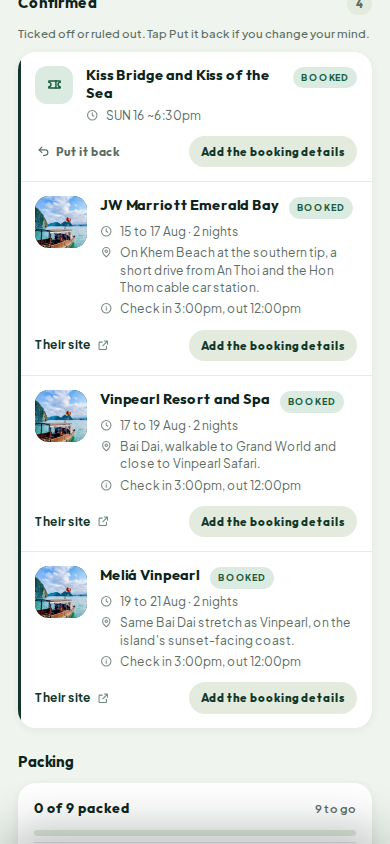
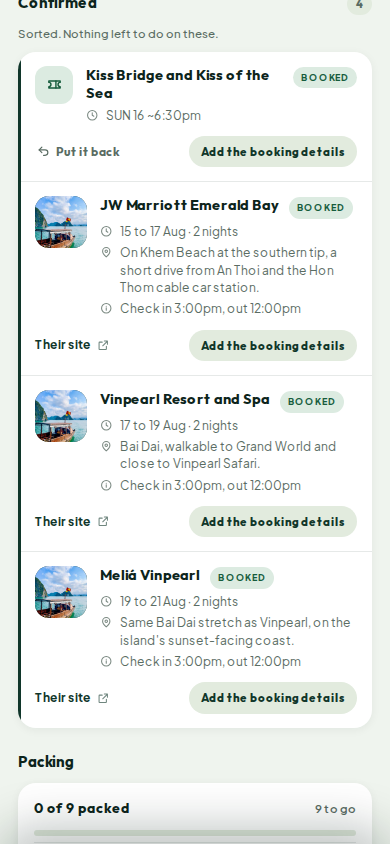
Not needed is its own section, and the pricing page speaks plainly
raffy: "wait if it's not needed why in confirmed? that's not weird?"

It was. Confirmed means you sorted it -- a room booked, a seat held. A row
you crossed off is the opposite: you decided it does not apply. One
heading over both made the heading untrue and the count meaningless, since
"5 of 6 sorted" counted a hotel nobody booked and nobody intends to.

So they still both come down, and then they part: Confirmed for what is
sorted, Not needed below it, quieter, with Put it back. And a crossed-off
row now leaves the ring's total rather than counting as sorted -- removing
a task should make the list shorter, which is what anybody crossing
something out expects.

Then the landing page: "use better language". It was breaking the same
plain-English rule the agent works to -- "no bulk discount", "run low
mid-trip", "rebuilding it". Most people reading it learned English at
school in Malaysia or Indonesia. It now says what a credit is before
asking anyone to buy one, and the test fails on a list of slang as well as
on numbers that disagree with the server. The test reads the free grant
and the cost of planning again from lib/credits.js instead of matching a
sentence, so the copy can be rewritten freely and still has to be true.

Claude-Session: https://claude.ai/code/session_01XX4qYWhMzcajorKvPXrgW7

Changed region(s): [[0.0308, 0.0308, 0.9538, 0.0616]]

diff --git a/public/welcome/index.html b/public/welcome/index.html
@@ -545,30 +545,36 @@ footer{padding:44px 0 40px;border-top:1px solid var(--line);color:var(--ink-fain
 </section>
 
 <!-- ============ PRICING ============ -->
-<!-- The numbers here are the ones the app actually charges. lib/stripe.js holds
-     the packs (RM28 = 100 credits, RM68 = 242, top up from RM10 at the same
-     RM0.28 a credit) and lib/credits.js the free grant (15) and the cost of a
-     rebuild (25). A trip has measured between 27 and 84 credits across the test
-     runs, so the ranges below are the real spread, not a guess. If a price moves
-     in config, it moves here too. -->
+<!-- The numbers are the ones the app actually charges: lib/stripe.js holds the
+     packs (RM28 = 100 credits, RM68 = 242, top up from RM10 at the same RM0.28
+     a credit) and lib/credits.js the free grant (15) and the cost of planning
+     again (25). A trip has measured 27 to 84 credits across the test runs, so
+     the range below is the real spread, not a guess.
+
+     THE WORDS. raffy, 2026-09-08: "use better language." The same rule the
+     agent works to applies here, and this page was breaking it — "no bulk
+     discount", "run low mid-trip", "rebuilding it". Most people reading this
+     learned English at school in Malaysia or Indonesia. So: short common words,
+     one idea a line, and no phrase whose meaning is not its literal meaning.
+     Say what a credit is before asking anyone to buy one. -->
 <section id="pricing" class="dark">
   <div class="wrap">
-    <div class="rv" style="max-width:620px;margin-bottom:10px">
+    <div class="rv" style="max-width:640px;margin-bottom:10px">
       <p class="eyebrow">Pricing</p>
-      <h2>Pay per trip, not every month.</h2>
-      <p class="lede" style="margin-top:16px">You buy credits and spend them as you plan. No subscription, and they do not expire. <strong style="color:#F2F7F2">Start with 15 free credits</strong> &mdash; enough to see how it works before you pay anything.</p>
+      <h2>Pay for the trip. Not every month.</h2>
+      <p class="lede" style="margin-top:16px">Credits are what you spend while you plan. A question costs a few. A whole trip costs more. <strong style="color:#F2F7F2">Your first 15 credits are free</strong>, so you can try it before you pay anything &mdash; and credits never expire.</p>
     </div>
 
     <div class="tiers">
       <div class="tier rv">
         <div class="tname">Plan a trip</div>
         <div class="tprice">RM28</div>
-        <div class="tunit">100 credits, paid once</div>
-        <p class="tsub">One big trip, researched properly, with room to change your mind.</p>
+        <div class="tunit">100 credits &middot; one payment</div>
+        <p class="tsub">One full trip, planned properly, with room to change your mind.</p>
         <ul>
-          <li><svg viewBox="0 0 24 24" fill="none" stroke="currentColor" stroke-width="2.4" stroke-linecap="round" stroke-linejoin="round"><path d="m5 12.5 4.5 4.5L19 7"/></svg>A whole trip planned, start to finish</li>
-          <li><svg viewBox="0 0 24 24" fill="none" stroke="currentColor" stroke-width="2.4" stroke-linecap="round" stroke-linejoin="round"><path d="m5 12.5 4.5 4.5L19 7"/></svg>Asking about a trip you have made costs a credit or two</li>
-          <li><svg viewBox="0 0 24 24" fill="none" stroke="currentColor" stroke-width="2.4" stroke-linecap="round" stroke-linejoin="round"><path d="m5 12.5 4.5 4.5L19 7"/></svg>The app is yours, and it works with no internet</li>
+          <li><svg viewBox="0 0 24 24" fill="none" stroke="currentColor" stroke-width="2.4" stroke-linecap="round" stroke-linejoin="round"><path d="m5 12.5 4.5 4.5L19 7"/></svg>A whole trip: where you sleep, and what you do each day</li>
+          <li><svg viewBox="0 0 24 24" fill="none" stroke="currentColor" stroke-width="2.4" stroke-linecap="round" stroke-linejoin="round"><path d="m5 12.5 4.5 4.5L19 7"/></svg>Real prices and real opening times, checked as it plans</li>
+          <li><svg viewBox="0 0 24 24" fill="none" stroke="currentColor" stroke-width="2.4" stroke-linecap="round" stroke-linejoin="round"><path d="m5 12.5 4.5 4.5L19 7"/></svg>The app is yours to keep, and it works with no internet</li>
         </ul>
         <a class="btn btn-ghost" href="/">Start here</a>
       </div>
@@ -576,25 +582,25 @@ footer{padding:44px 0 40px;border-top:1px solid var(--line);color:var(--ink-fain
       <div class="tier best rv">
         <div class="tname">Plan a few <span class="tag">Best value</span></div>
         <div class="tprice">RM68</div>
-        <div class="tunit">242 credits, paid once</div>
+        <div class="tunit">242 credits &middot; one payment</div>
         <p class="tsub">Two or three trips, or one you keep coming back to.</p>
         <ul>
-          <li><svg viewBox="0 0 24 24" fill="none" stroke="currentColor" stroke-width="2.4" stroke-linecap="round" stroke-linejoin="round"><path d="m5 12.5 4.5 4.5L19 7"/></svg>The same rate as the smaller pack &mdash; no bulk discount, no catch</li>
-          <li><svg viewBox="0 0 24 24" fill="none" stroke="currentColor" stroke-width="2.4" stroke-linecap="round" stroke-linejoin="round"><path d="m5 12.5 4.5 4.5L19 7"/></svg>Plan trips for other people on your account</li>
-          <li><svg viewBox="0 0 24 24" fill="none" stroke="currentColor" stroke-width="2.4" stroke-linecap="round" stroke-linejoin="round"><path d="m5 12.5 4.5 4.5L19 7"/></svg>Credits stay yours until you use them</li>
+          <li><svg viewBox="0 0 24 24" fill="none" stroke="currentColor" stroke-width="2.4" stroke-linecap="round" stroke-linejoin="round"><path d="m5 12.5 4.5 4.5L19 7"/></svg>Same price for each credit as the smaller pack</li>
+          <li><svg viewBox="0 0 24 24" fill="none" stroke="currentColor" stroke-width="2.4" stroke-linecap="round" stroke-linejoin="round"><path d="m5 12.5 4.5 4.5L19 7"/></svg>Plan trips for other people from your account</li>
+          <li><svg viewBox="0 0 24 24" fill="none" stroke="currentColor" stroke-width="2.4" stroke-linecap="round" stroke-linejoin="round"><path d="m5 12.5 4.5 4.5L19 7"/></svg>What you do not use stays there for the next trip</li>
         </ul>
         <a class="btn btn-onDark" href="/">Start here</a>
       </div>
     </div>
 
     <div class="credits rv" style="background:rgba(255,255,255,.05);border-color:rgba(255,255,255,.12);color:#E7EFE8">
-      <div class="ch">What things cost</div>
+      <div class="ch">What each thing costs</div>
       <div class="crow" style="border-top-color:rgba(255,255,255,.1)"><span style="color:#A9C0B4">Planning a whole trip</span><span>30&ndash;85</span></div>
-      <div class="crow" style="border-top-color:rgba(255,255,255,.1)"><span style="color:#A9C0B4">Rebuilding it after your plans change</span><span>25</span></div>
+      <div class="crow" style="border-top-color:rgba(255,255,255,.1)"><span style="color:#A9C0B4">Planning it again, after your dates change</span><span>25</span></div>
       <div class="crow" style="border-top-color:rgba(255,255,255,.1)"><span style="color:#A9C0B4">Asking it to look one thing up</span><span>1&ndash;6</span></div>
-      <div class="crow" style="border-top-color:rgba(255,255,255,.1)"><span style="color:#A9C0B4">Changing a time, a name, a day</span><span>About 1</span></div>
+      <div class="crow" style="border-top-color:rgba(255,255,255,.1)"><span style="color:#A9C0B4">Changing a time, a name or a day</span><span>About 1</span></div>
       <div class="crow" style="border-top-color:rgba(255,255,255,.1)"><span style="color:#A9C0B4">Opening a trip you already have</span><span>Free</span></div>
-      <p style="margin:14px 0 0;font-size:13.5px;color:#A9C0B4;line-height:1.55">Run low mid&#8209;trip and you can top up any amount from RM10, at the same RM0.28 a credit.</p>
+      <p style="margin:14px 0 0;font-size:13.5px;color:#A9C0B4;line-height:1.55">If you finish your credits while planning, you can add any amount from RM10. The price stays the same: RM0.28 for one credit.</p>
     </div>
   </div>
 </section>

diff --git a/renderer/render.js b/renderer/render.js
@@ -2422,16 +2422,22 @@ export function render(itinerary, templateSrc, opts) {
     '    }',
     '    var all=todo.map(function(t){ return localise(t,false); })',
     '      .concat(done.map(function(t){ return localise(t,true); }));',
+    '    function dropped(xs){ return xs.filter(function(t){ return t.skip; }); }',
     '    var open=all.filter(function(t){ return !t.done&&!t.skip; });',
     // Ticked first, then the ones that do not apply. Both are settled, but one
     // is an achievement and the other is housekeeping.
     '    var settled=all.filter(function(t){ return t.done; })',
     '      .concat(all.filter(function(t){ return t.skip; }));',
     '    todo=open; done=all.filter(function(t){ return t.done; });',
-    // The ring counts what you got through, and a row you crossed off is not
-    // something left to do — so it counts as settled rather than dragging the
-    // total down forever.
-    '    var need=all.length, sorted=settled.length;',
+    // WHAT THE RING COUNTS, once "not needed" became its own section.
+    //
+    // A crossed-off row leaves the sum entirely rather than counting as sorted.
+    // Counting it as sorted made the ring say "5 of 6 sorted" about a trip where
+    // one of those five was a hotel nobody booked and nobody intends to — the
+    // same overstatement the section split was there to fix. Removing a task
+    // should make the list shorter, which is what anybody crossing something out
+    // expects to happen.
+    '    var need=all.length-dropped(all).length, sorted=all.filter(function(t){ return t.done; }).length;',
     '',
     '    var pct=need?Math.round(sorted/need*100):0, C=163.4;',
     '    var h=need?\'<div class="bksum"><div class="bkring">\'+',
@@ -2491,18 +2497,38 @@ export function render(itinerary, templateSrc, opts) {
     '        \'or ask me to add it, and I will look it up</button>\';',
     '    }',
     '',
-    // Everything you have settled, one section, at the bottom. raffy: "anything
-    // they say tick or x bring down to confirm section."
-    '    if(settled.length||extra.length){',
-    '      h+=group("Confirmed", settled.map(todoCard).concat(',
+    // TWO SECTIONS AT THE BOTTOM, NOT ONE.
+    //
+    // raffy, 2026-09-08, on the first version of this: "wait if it's not needed
+    // why in confirmed? that's not weird?"
+    //
+    // It was. Confirmed means you sorted it — there is a room booked, a seat
+    // held, a thing done. A row you crossed off is the opposite: you decided it
+    // does not apply to this trip. Filing both under one heading made the
+    // heading a lie and the count meaningless, since "6 confirmed" would have
+    // included four things nobody ever did.
+    //
+    // So they go down together and then part: Confirmed for what is sorted, Not
+    // needed for what is out. Both are settled — neither is left to do — which
+    // is why the ring still counts them the same way.
+    '    var didIt=settled.filter(function(t){ return !t.skip; });',
+    '    var notNeeded=dropped(settled);',
+    '    if(didIt.length||extra.length){',
+    '      h+=group("Confirmed", didIt.map(todoCard).concat(',
     '        extra.map(function(b){ return todoCard({ what:b.title, kind:b.kind||"other", done:true, booking:b }); })',
-    '      ), "ok", "Ticked off or ruled out. Tap Put it back if you change your mind.");',
+    '      ), "ok", "Sorted. Nothing left to do on these.");',
     '    } else if(need) {',
     '      h+=\'<div class="sect"><h2>Confirmed</h2></div>\';',
     '      h+=\'<div class="bkempty"><span class="ico">\'+bkIcon("other")+\'</span>\'+',
-    '        \'<b>Nothing settled yet</b><p>Tick anything you have sorted, or cross off \'+',
-    '        \'what does not apply. Either way it comes down here, and you can put it \'+',
-    '        \'back.</p></div>\';',
+    '        \'<b>Nothing sorted yet</b><p>Tick anything you have booked and it comes \'+',
+    '        \'down here. Cross off what does not apply and it goes to Not needed.</p></div>\';',
+    '    }',
+    // Kept, not deleted, and kept quiet: it is a decision you made, and you are
+    // allowed to change it. raffy's rule for his own vault applies here too —
+    // nothing a person put on a list disappears because they crossed it out.
+    '    if(notNeeded.length){',
+    '      h+=group("Not needed", notNeeded.map(todoCard), "off",',
+    '        "Not part of this trip. Tap Put it back if that changes.");',
     '    }',
     '    el.innerHTML=h;',
     '  }',
@@ -3764,6 +3790,10 @@ export function render(itinerary, templateSrc, opts) {
     '  }',
     '  .tgroup.hot::before{background:var(--coral)}',
     '  .tgroup.ok::before{background:var(--deep)}',
+    // Not needed is settled but not achieved, so its edge is the quietest one
+    // on the page rather than a third colour competing with the other two.
+    '  .tgroup.off::before{background:var(--line)}',
+    '  .tgroup.off .tdcard{opacity:.72}',
     '  .tgroup .tdcard{',
     '    background:none;box-shadow:none;border-radius:0;margin:0;',
     '    padding:14px 15px 14px 17px;',
